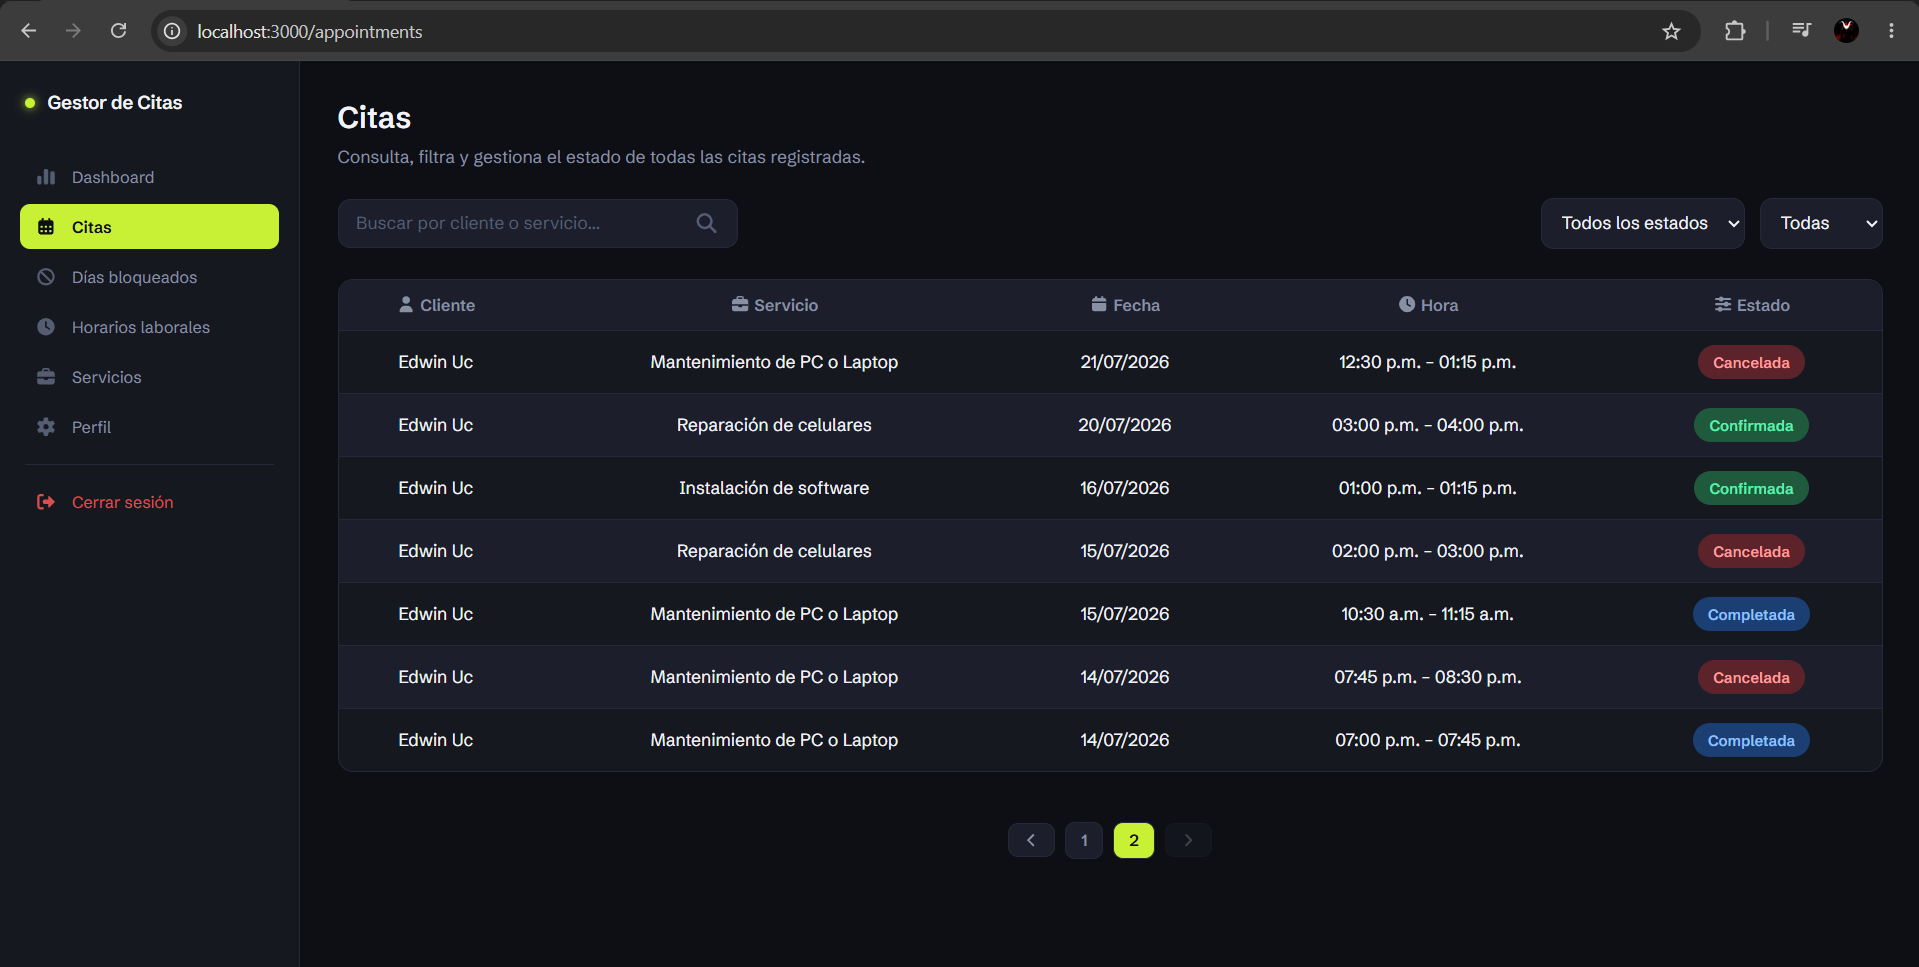
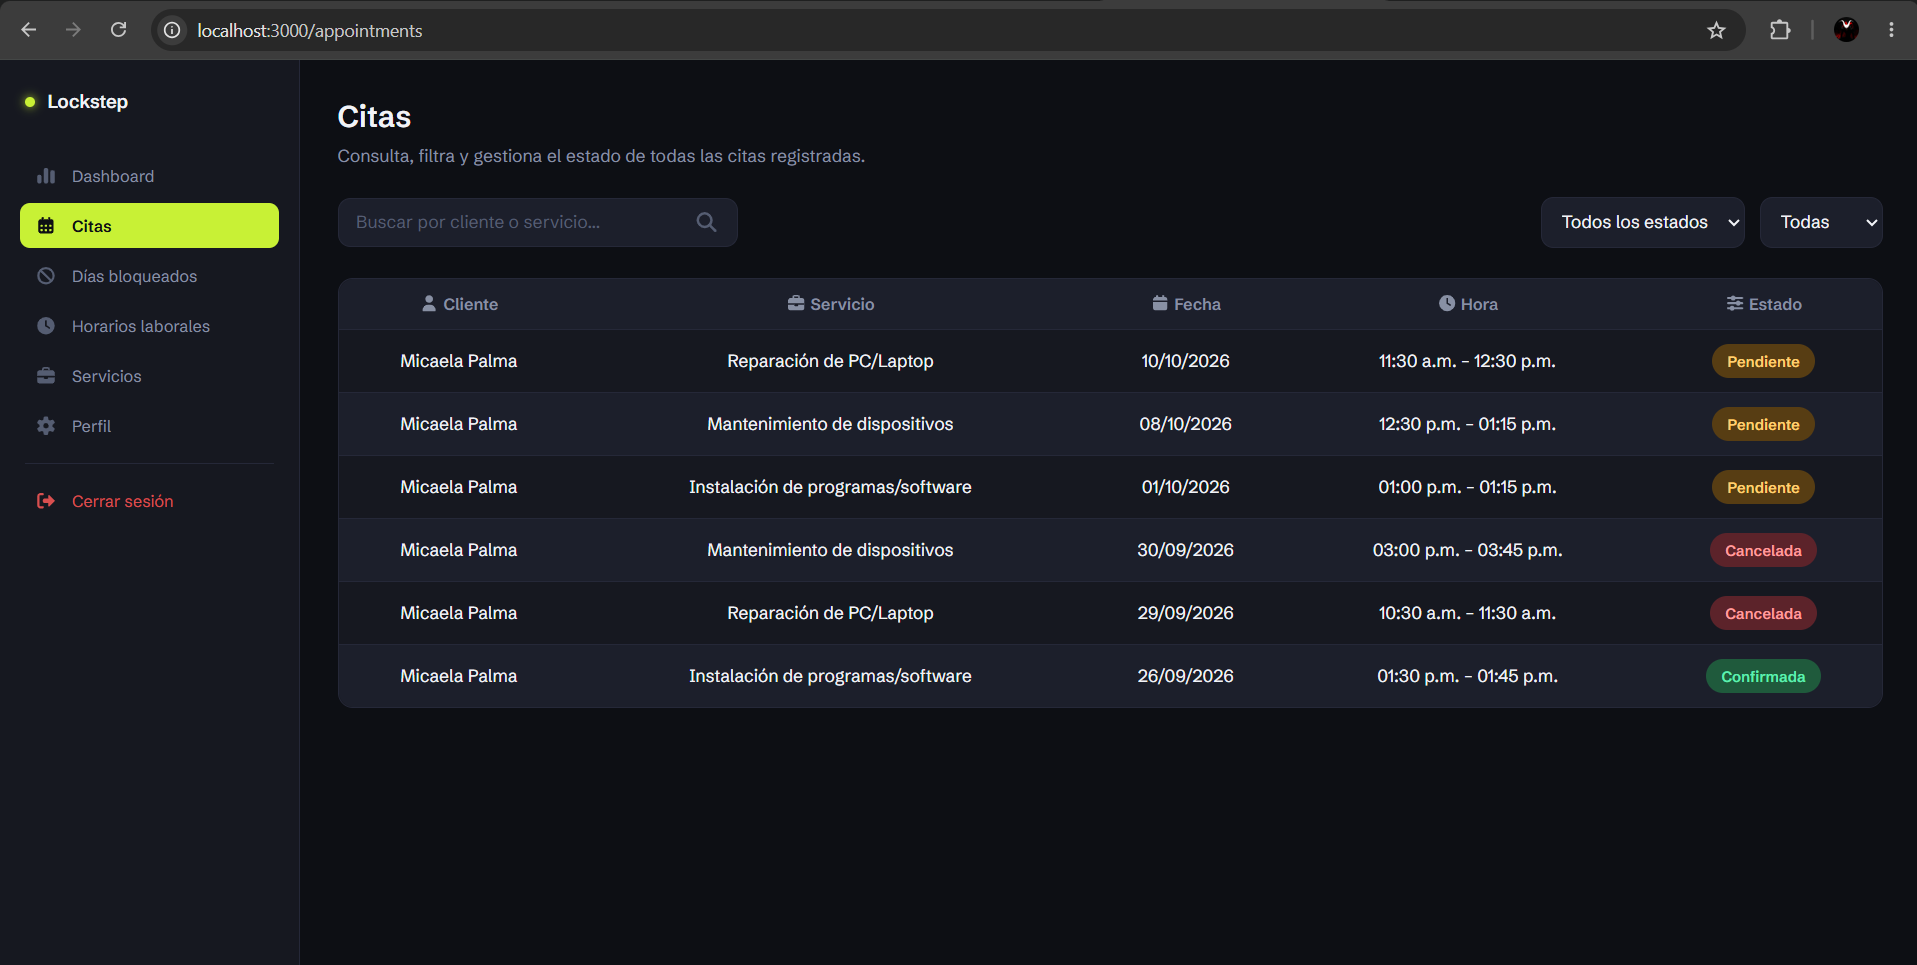
actualizando nombre del proyecto

diff --git a/components/sidebar.jsx b/components/sidebar.jsx
@@ -59,7 +59,7 @@ export default function Sidebar() {
 
       <SidebarContainer mobileOpen={mobileOpen}>
         <Logo mobileOpen={mobileOpen}>
-          <SidebarLabel mobileOpen={mobileOpen}>Gestor de Citas</SidebarLabel>
+          <SidebarLabel mobileOpen={mobileOpen}>Lockstep</SidebarLabel>
           <SidebarToggle
             mobileOpen={mobileOpen}
             aria-label={mobileOpen ? "Contraer menú" : "Expandir menú"}

diff --git a/components/navbar.jsx b/components/navbar.jsx
@@ -112,7 +112,7 @@ export default function Navbar() {
       <LeftSection>
         <FontAwesomeIcon icon={faCalendarDays} />
         <Divider>|</Divider>
-        <Brand>Gestor de Citas</Brand>
+        <Brand>Lockstep</Brand>
       </LeftSection>
 
       <RightSection ref={dropdownRef}>

diff --git a/README.md b/README.md
@@ -1,10 +1,10 @@
-# 🚀 Appointment Management System – Frontend
+# 🚀 Lockstep – Frontend
 
-A responsive, role-aware scheduling interface built with **Next.js**, designed to consume the [Appointment Management Backend API](https://github.com/EdannyDev/backend-appointment) and provide a smooth booking experience for both clients and administrators.
+A responsive, role-aware scheduling interface built with **Next.js**, designed to consume the [Lockstep Backend API](https://github.com/EdannyDev/backend-appointment) and provide a smooth booking experience for both clients and administrators.
 
 ## 📌 Overview
 
-Appointment Management Frontend is a Next.js application that provides an interactive scheduling interface with real-time availability visualization.
+Lockstep Frontend is a Next.js application that provides an interactive scheduling interface with real-time availability visualization.
 
 It integrates a dynamic calendar system and enforces role-based UI control, communicating with the backend exclusively through a REST API secured with HttpOnly cookies. Built as a portfolio project to demonstrate end-to-end ownership of a real scheduling flow: role-based UI, a fully responsive layout, and a clean, single-token theming system rather than scattered ad-hoc styles.
 
@@ -115,7 +115,7 @@ The interface is fully responsive from a 768px breakpoint down to mobile, coveri
 
 Deployed on [Vercel](https://vercel.com), consuming the backend API deployed on [Render](https://render.com):
 
-**[gestor-citas-edannydev.vercel.app](https://gestor-citas-edannydev.vercel.app/login)**
+**[lockstep-edannydev.vercel.app](https://lockstep-edannydev.vercel.app)**
 
 ---
 
